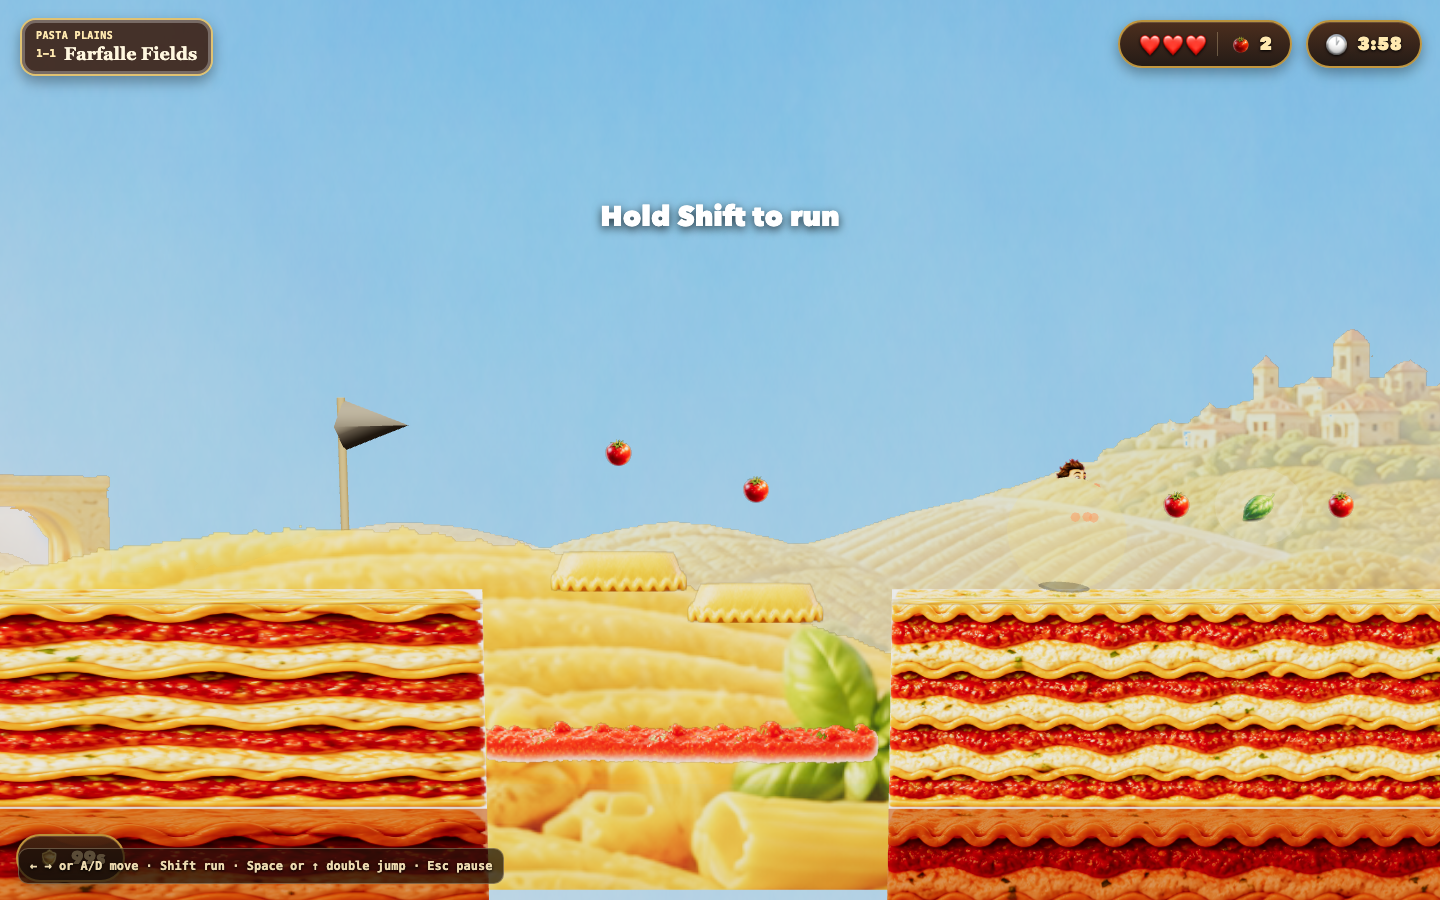
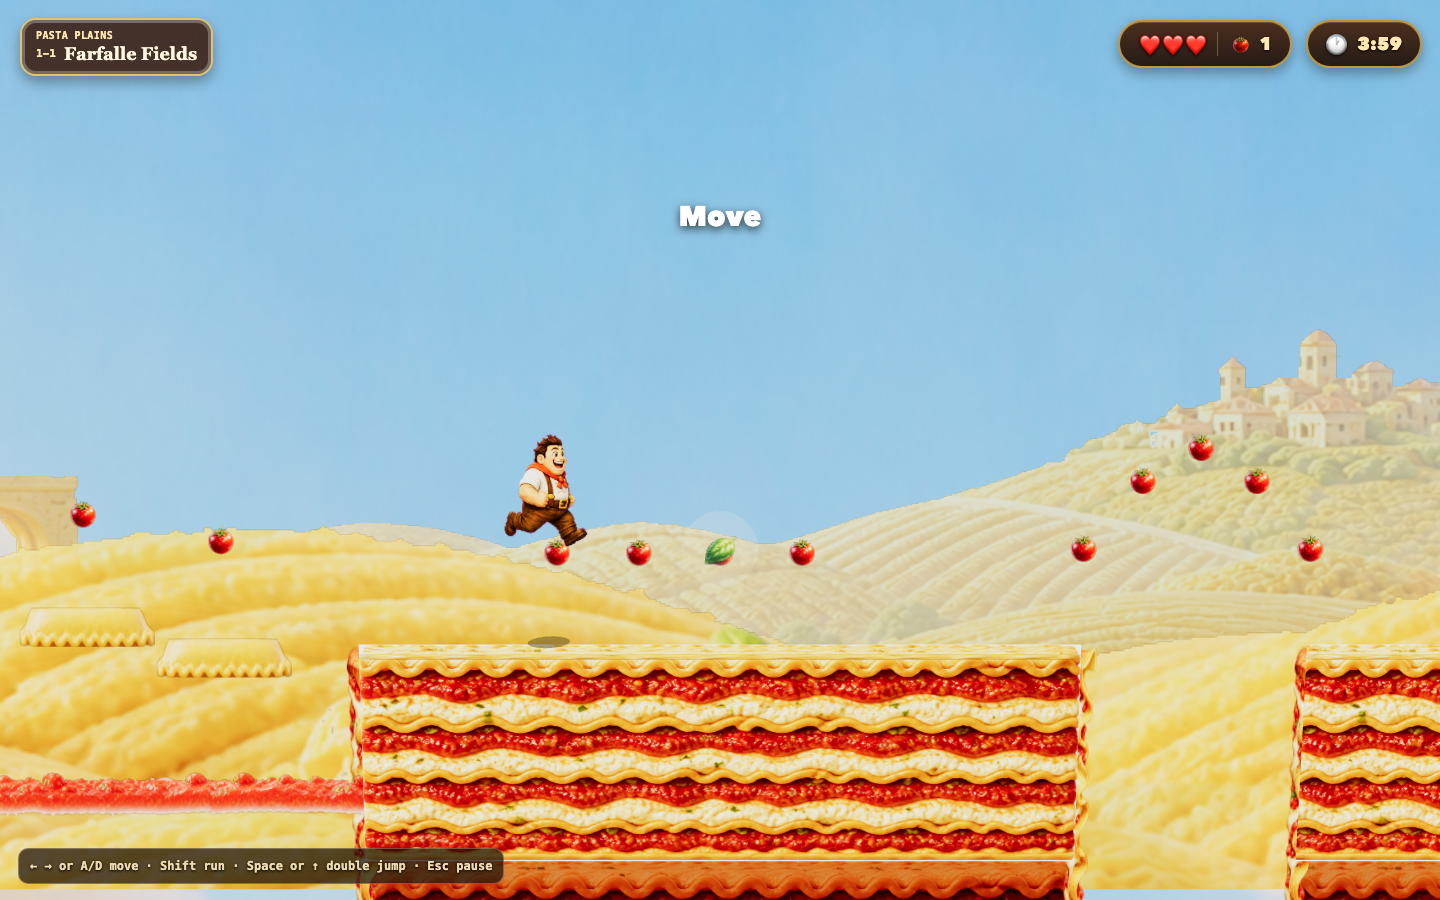
fix: close remaining World 1 seams

diff --git a/tests/browser/savoria.spec.js b/tests/browser/savoria.spec.js
@@ -195,9 +195,52 @@ test('1-1 supports a double jump and collectible basil', async ({ page }) => {
   expect(result.hearts).toBe(4);
   expect(result.resourcePaths).toContain('/assets/world1/marinara-puff.png');
   expect(result.resourcePaths).toContain('/assets/world1/golden-pasta-bell.png');
+  expect(result.resourcePaths).toContain('/assets/world1/chef-spawn-marker.png');
   expect(result.resourcePaths).not.toContain('/assets/sprites/meatball_walker.png');
   expect(result.resourcePaths).not.toContain('/assets/sprites/goal_archway.png');
+  expect(result.resourcePaths).not.toContain('/assets/sprites/start_signpost.png');
   await expect(page.locator('#hud-hearts')).toHaveAttribute('aria-label', '4 hearts');
+  await expectClean(page, diagnostics);
+});
+
+test('1-1 hides off-surface shadows and renders seamless sauce with cliff trim', async ({ page }) => {
+  const diagnostics = await monitorPage(page);
+
+  await startOneOne(page);
+  const result = await page.evaluate(() => {
+    const session = window.__savoriaTest.session;
+    const gap = session.level.requiredJumps.find((jump) => jump.transfer === 'gap');
+    session.player.pos.set(gap.takeoffX + 0.1, gap.takeoffY + 2, 0);
+    session.updateShadow();
+
+    const canvas = session.hazards[0].tex.image;
+    const context = canvas.getContext('2d', { willReadFrequently: true });
+    const left = context.getImageData(0, 0, 1, canvas.height).data;
+    const right = context.getImageData(canvas.width - 1, 0, 1, canvas.height).data;
+    const maxAlpha = (pixels) => {
+      let maximum = 0;
+      for (let index = 3; index < pixels.length; index += 4) {
+        maximum = Math.max(maximum, pixels[index]);
+      }
+      return maximum;
+    };
+    let cliffEdges = 0;
+    session.scene.traverse((object) => {
+      if (object.name === 'world-one-cliff-edge') cliffEdges += 1;
+    });
+
+    return {
+      shadowVisible: session.blob.visible,
+      sauceLeftAlpha: maxAlpha(left),
+      sauceRightAlpha: maxAlpha(right),
+      cliffEdges,
+    };
+  });
+
+  expect(result.shadowVisible).toBe(false);
+  expect(result.sauceLeftAlpha).toBeGreaterThan(200);
+  expect(result.sauceRightAlpha).toBeGreaterThan(200);
+  expect(result.cliffEdges).toBeGreaterThan(0);
   await expectClean(page, diagnostics);
 });
 

diff --git a/js/core/world-builder.js b/js/core/world-builder.js
@@ -184,6 +184,24 @@ function createWorldTools(THREE) {
       );
       mesh.add(cap);
     }
+
+    if (visual.edge && !isPlatform) {
+      const edgeHeight = h + (visual.skirtDepth || 0);
+      const edgeY = -(visual.skirtDepth || 0) / 2;
+      for (const side of [-1, 1]) {
+        const edge = new THREE.Mesh(
+          new THREE.PlaneGeometry(visual.edgeWidth, edgeHeight),
+          visualMaterial(textures, visual.edge),
+        );
+        edge.name = 'world-one-cliff-edge';
+        edge.position.set(
+          side * visualWidth / 2,
+          edgeY,
+          terrainPlaneZ(d, visual.faceDepth + 0.03),
+        );
+        mesh.add(edge);
+      }
+    }
   }
 
   // ── Decoration builders (one per world flavor) ─────────────────────────
@@ -440,11 +458,13 @@ function buildWorld(state, tools) {
   state.hazards = [];
   for (const hz of L.hazards || []) {
     const [x, y, z, w, d] = hz;
-    const rt = visualTexture(
-      state.textures,
+    const rt = state.textures.cropped(
       WORLD_ONE_VISUALS.hazard.surface,
       WORLD_ONE_VISUALS.hazard.uv,
-      WORLD_ONE_VISUALS.hazard.removeLightNeutral,
+      {
+        removeLightNeutral: WORLD_ONE_VISUALS.hazard.removeLightNeutral,
+        seamlessHorizontal: true,
+      },
     );
     rt.wrapS = THREE.RepeatWrapping;
     const mesh = new THREE.Mesh(
@@ -516,8 +536,8 @@ function buildWorld(state, tools) {
     state.scene.add(state.goalObj);
   }
   // start signpost
-  const sign = makeSprite(state.textures, 'assets/sprites/start_signpost.png', 2.4, 2.4);
-  sign.position.set(L.spawn[0] + 2.5, L.spawn[1] - 2.8, 1.5);
+  const sign = makeSprite(state.textures, SPRITES.start, 2.2, 3.3);
+  sign.position.set(L.spawn[0] + 2.5, L.spawn[1] - 2.35, 1.5);
   state.scene.add(sign);
 
   if (!L.theme.visuals) {

diff --git a/js/visuals/world-one-manifest.js b/js/visuals/world-one-manifest.js
@@ -56,6 +56,8 @@ export const WORLD_ONE_VISUALS = deepFreeze({
     ground: {
       cap: 'assets/world1/ground-cap.png',
       face: 'assets/world1/ground-face.png',
+      edge: 'assets/world1/lasagna-cliff-edge.png',
+      edgeWidth: 1.4,
       faceUv: { offsetX: 0.06, offsetY: 0.22, repeatX: 0.88, repeatY: 0.54 },
       sourceAspect: 2.9,
       skirtDepth: 6,
@@ -66,6 +68,8 @@ export const WORLD_ONE_VISUALS = deepFreeze({
     ground2: {
       cap: 'assets/world1/ground-cap.png',
       face: 'assets/world1/ground-face.png',
+      edge: 'assets/world1/lasagna-cliff-edge.png',
+      edgeWidth: 1.4,
       faceUv: { offsetX: 0.06, offsetY: 0.22, repeatX: 0.88, repeatY: 0.54 },
       sourceAspect: 2.9,
       skirtDepth: 6,
@@ -115,7 +119,7 @@ export const WORLD_ONE_VISUALS = deepFreeze({
     shield: 'assets/sprites/parmesan_shield.png',
     boost: 'assets/sprites/basil_boost.png',
     goal: 'assets/world1/golden-pasta-bell.png',
-    start: 'assets/sprites/start_signpost.png',
+    start: 'assets/world1/chef-spawn-marker.png',
   },
 });
 

diff --git a/tests/unit/world-one-visuals.test.js b/tests/unit/world-one-visuals.test.js
@@ -43,6 +43,12 @@ test('World 1 enemy and finish marker use purpose-made Savoria assets', () => {
   assert.equal(WORLD_ONE_VISUALS.sprites.goal, 'assets/world1/golden-pasta-bell.png');
 });
 
+test('World 1 start and cliff edges use purpose-made Savoria assets', () => {
+  assert.equal(WORLD_ONE_VISUALS.sprites.start, 'assets/world1/chef-spawn-marker.png');
+  assert.equal(WORLD_ONE_VISUALS.terrain.ground.edge, 'assets/world1/lasagna-cliff-edge.png');
+  assert.equal(WORLD_ONE_VISUALS.terrain.ground2.edge, 'assets/world1/lasagna-cliff-edge.png');
+});
+
 test('controlled decoration skips narrow and non-ground terrain', () => {
   assert.deepEqual(
     decorationSlotsFor({ kind: 'ground', width: 7, top: 2, x: 0 }),

diff --git a/js/core/game-session.js b/js/core/game-session.js
@@ -535,8 +535,8 @@ export class GameSession {
     let groundY = this.level.killY;
     for (const solid of this.solids) {
       if (
-        player.pos.x > solid.aabb.minX - 0.2
-        && player.pos.x < solid.aabb.maxX + 0.2
+        player.pos.x >= solid.aabb.minX
+        && player.pos.x <= solid.aabb.maxX
         && solid.aabb.maxY <= player.pos.y + 0.1
         && solid.aabb.maxY > groundY
       ) {

diff --git a/docs/verification/2026-08-29-world-one-visual-checkpoint.md b/docs/verification/2026-08-29-world-one-visual-checkpoint.md
@@ -24,8 +24,8 @@ This document records the local `feat/savoria-world-one` implementation verified
 
 ## Automated evidence
 
-- `npm test`: 89 passed, 0 failed.
-- `npm run test:browser`: 6 passed, 0 failed.
+- `npm test`: 90 passed, 0 failed.
+- `npm run test:browser`: 7 passed, 0 failed.
 - `git diff --check`: passed.
 - Screenshot capture at all three desktop sizes: no page errors, failed requests, or document overflow.
 
@@ -42,6 +42,10 @@ This document records the local `feat/savoria-world-one` implementation verified
 - Tomatoes, enemies, players, and the marinara surface remain visually distinct.
 - The Marinara Puff replaces the legacy angry meatball sprite.
 - The Golden Pasta Bell replaces the isometric goal archway.
+- The chef spawn marker replaces the checkered racing sign.
+- Purpose-made lasagna trim closes exposed terrain edges.
+- Player shadows disappear when the chef leaves a collision surface.
+- Marinara spans the full hazard without transparent repeat seams.
 - Decorative basil plants are removed, so every visible basil is collectible.
 - The HUD stays in the corners and leaves the playfield open.
 
@@ -63,6 +67,9 @@ This document records the local `feat/savoria-world-one` implementation verified
 - `docs/verification/screenshots/world-one/fix-marinara-puff-1440x900.png`
 - `docs/verification/screenshots/world-one/fix-basil-pickup-1440x900.png`
 - `docs/verification/screenshots/world-one/fix-golden-pasta-bell-1440x900.png`
+- `docs/verification/screenshots/world-one/fix-spawn-marker-1440x900.png`
+- `docs/verification/screenshots/world-one/fix-cliff-shadow-1440x900.png`
+- `docs/verification/screenshots/world-one/fix-marinara-seam-1440x900.png`
 
 The representative screenshot uses the existing test-only session getter to move the camera to the mid-course platform and hazard section. It does not bypass the production renderer.
 
